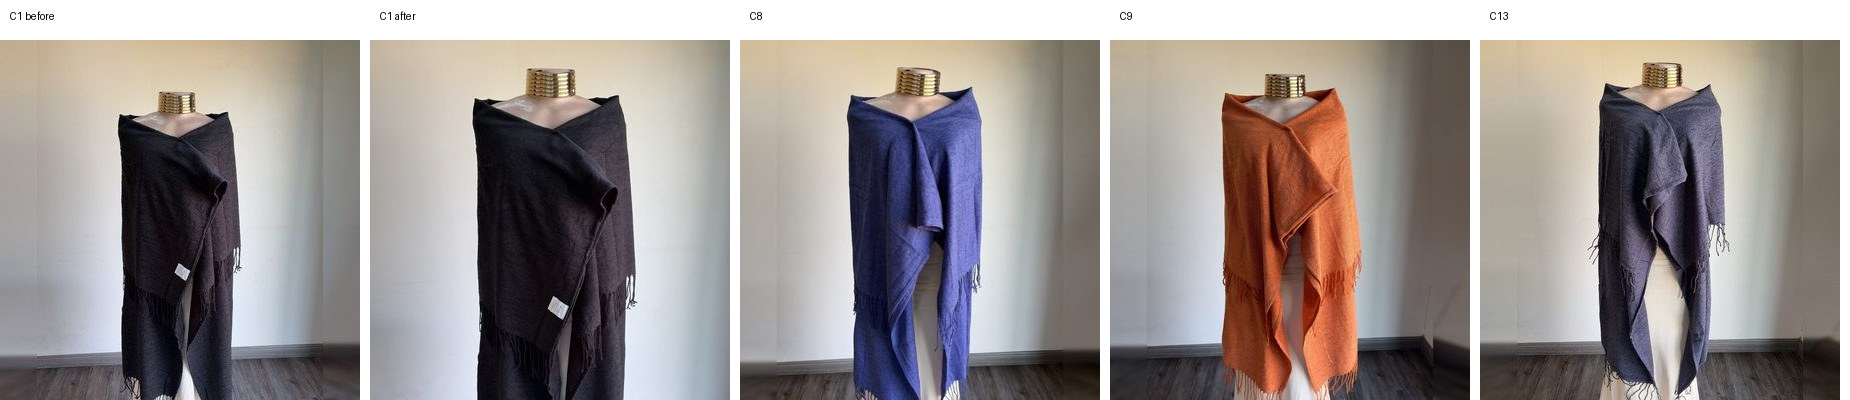
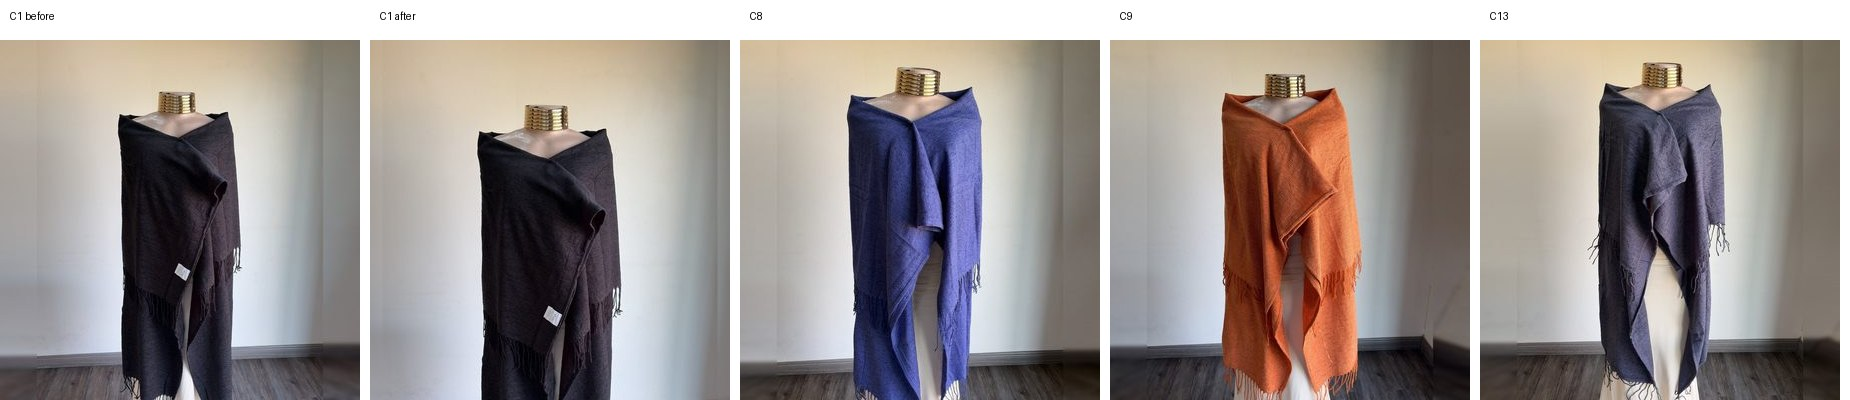
Website: C1 crop lined up with the other chenille throws
Claude-Session: https://claude.ai/code/session_01FrAdmZhbnvV2Pi8Ea2YxmY

Changed region(s): [[0.2465, 0.09, 0.4005, 1.0], [0.2465, 0.63, 0.2773, 0.66]]

diff --git a/marketing/website/make-shawl-thumbs.py b/marketing/website/make-shawl-thumbs.py
@@ -11,7 +11,7 @@ pub = sys.argv[1]
 TOP, BOTTOM = 0.04, 0.93          # keep from just above the stand's head to below the hem (fractions of photo height)
 # Photos taken from further away get a closer crop: product id -> (top, bottom, centre x), fractions of the photo
 CLOSER = {
-    "CSH-001": (0.031, 0.791, 0.487),   # C1 Black chenille throw (photo taken from further back)
+    "CSH-001": (0.107, 0.867, 0.487),   # C1 Black chenille throw (photo taken from further back)
 }
 
 def square(src, top=TOP, bottom=BOTTOM, cx=0.5):
